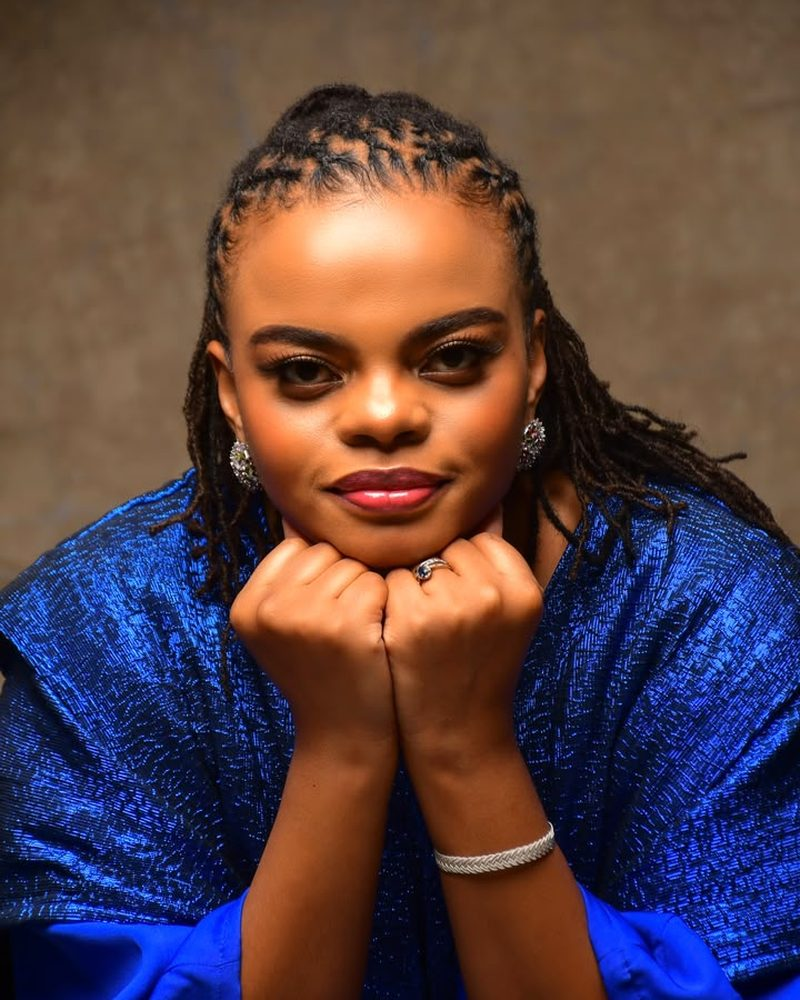
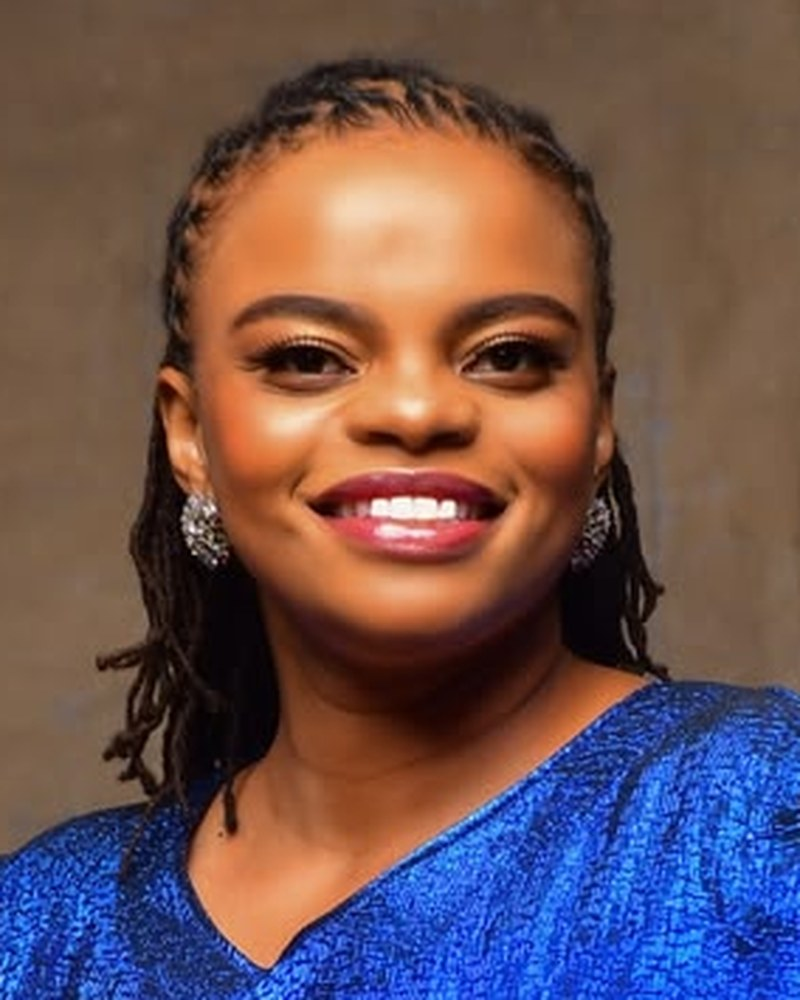
vitrine : une autre pose pour la premiere cliente, et le doublon s'en va
Deux mouvements demandes par Yeman.

La premiere photo du rang « Nos clientes » est remplacee par une AUTRE PHOTO
de la meme cliente, debout, qu'il juge meilleure de pose. Recadree a la meme
echelle de visage que ses voisines, tete a 0,55 de la hauteur et regard a
0,37. L'echelle a ete reglee sur le RANG ASSEMBLE et non sur la photo seule :
un premier essai calait sur la photo qu'il remplacait, qui etait justement la
plus petite du rang, et le nouveau visage sortait plus petit que les autres.
C'est cote a cote qu'une echelle se voit.

La quatrieme photo du rang etait la MEME FEMME que la troisieme, en veste
peche au lieu de rouge. La regle « une seule par personne dans la rangee »
etait ecrite dans le contenu depuis le 24 septembre et n'etait gardee par
rien. Elle quitte le rang, qui passe a quatre, et va illustrer « Quelle
methode choisir pour creer ses premieres locks ? ».

Une photo verticale ne rentre pas de face dans une carte 16/10 : la plus
grande fenetre possible coupait le menton. Le fond a donc ete PROLONGE a
droite, chaque rangee continuee par la moyenne de ses vingt dernieres
colonnes, la ou il est uniforme a un niveau de gris pres (ecart-type 1,
mesure). Rien n'y est invente qui ne s'y trouve deja, personne n'est
retouche, aucune signature n'est touchee : seul le vide s'allonge.

La vignette qu'elle remplace n'illustrait que cet article. Une photo de
cliente publiee qui ne sert plus n'a pas a rester dans les fichiers servis,
[…]

diff --git a/src/apps/revelateur/contenu.ts b/src/apps/revelateur/contenu.ts
@@ -238,7 +238,18 @@ export const ACCUEIL: Accueil = {
        visage y revient et la rangée se défait. `cliente-9` est recadrée à la
        même échelle de visage que les autres, regard à 35 % de la hauteur, la
        signature de la photographe sortie du cadre (jamais effacée). */
-    images: ['cliente-3.jpg', 'cliente-6.jpg', 'cliente-7.jpg', 'cliente-8.jpg', 'cliente-9.jpg'],
+    /* QUATRE DEPUIS LE 26 SEPTEMBRE 2026. `cliente-8` est partie : c'est la
+       MEME FEMME que `cliente-7`, en veste pêche au lieu de rouge, et deux
+       photos d'une seule personne dans une rangée de clientes défont
+       précisément ce que la rangée dit. La règle était déjà écrite au-dessus,
+       « une seule par personne » ; elle n'était gardée par rien. `cliente-8`
+       continue de servir au bandeau « À la Maison », et sert désormais la
+       vignette de « Quelle méthode choisir pour créer ses premières locks ? ».
+       `cliente-3` est une autre photo de la même cliente, debout, remise par
+       Yéman le 26 septembre : même échelle de visage que ses voisines, 0,55 de
+       la hauteur, regard à 0,37, mesurée sur le rang assemblé et non sur la
+       photo seule. */
+    images: ['cliente-3.jpg', 'cliente-6.jpg', 'cliente-7.jpg', 'cliente-9.jpg'],
   },
   portes: {
     sur: 'Cinq parcours, une seule méthode',

diff --git a/scripts/verifie-la-vitrine.harnais.ts b/scripts/verifie-la-vitrine.harnais.ts
@@ -140,7 +140,14 @@ const VIGNETTES_DE_CLIENTES = ['journal-4.jpg', 'journal-5.jpg', 'journal-6.jpg'
   /* 24 septembre 2026 : trois de plus, dont un ENFANT (journal-7). La règle
      compte double pour lui. journal-9 est `cliente-2.jpg`, descendue de
      l'accueil au Journal. */
-  'journal-7.jpg', 'journal-8.jpg', 'journal-9.jpg'];
+  'journal-7.jpg', 'journal-9.jpg',
+  /* 26 septembre 2026 : `journal-10` est `cliente-8.jpg`, descendue du rang de
+     l'accueil où elle doublait `cliente-7` — c'est la même femme. `journal-8`
+     a quitté le site le même jour : sa place était la seule qu'elle occupait,
+     et le contrôle d'en bas veut qu'une photo de cliente publiée serve quelque
+     part. Elle n'est pas détruite, son original reste chez Yéman ; elle n'est
+     simplement plus servie. */
+  'journal-10.jpg'];
 /* Les mots par lesquels un article nomme un défaut. La liste s'allonge avec
    le Journal : un article qui parlera de chute, d'odeur ou de moisissure
    s'ajoute ici le jour où il est écrit. */

diff --git a/docs/site-revelateur/photos.md b/docs/site-revelateur/photos.md
@@ -27,11 +27,12 @@ lieu de la tirer au sort sur son rang dans le dossier.
 | `portrait-accueil.jpg` | porte « Je veux créer ma couronne » | un portrait souriant, cadré 4/5 sur le visage | remise par Yéman le 22 septembre 2026 ; signature de la photographe hors cadre, sans crédit, sur sa décision |
 | `trois-couronnes.jpg` | porte Entretien | trois femmes, trois couronnes | remise par Yéman le 22 septembre 2026 |
 | `mnd-kids.jpg` | porte MND Kids, page MND Kids | une mère et son enfant, cadrés 4/5 | remise par Yéman le 23 septembre 2026 ; **accord de la mère confirmé par Yéman le 23 septembre 2026** ; signature de la photographe hors cadre ; aucun prénom nulle part |
-| `cliente-3.jpg` | accueil, « Nos clientes », au-dessus des avis Google | une cliente de la Maison, portrait 4/5 ancré en haut. Le 24 septembre 2026, `cliente-2.jpg` a quitté cette rangée : son visage y était deux fois plus petit que celui de sa voisine, et deux échelles côte à côte se lisent comme un défaut. Elle vit désormais au Journal sous `journal-9.jpg`, recadrée depuis son original | remises par Yéman le 23 septembre 2026 (Downloads/portraits-clientes-2026-09) ; **ce que nous savons, c'est la réponse de Yéman au sélecteur, le 23 septembre 2026 : « Des clientes, avec accord » (« elles ont dit oui pour paraître sur le site public »), alors que la voie « Des clientes, sans accord encore » lui était offerte et décrite** ; aucun prénom nulle part ; bandeau du studio photo (cliente-2) hors cadre par le recadrage, jamais gommé |
+| `cliente-3.jpg` | accueil, « Nos clientes », au-dessus des avis Google | **Depuis le 26 septembre 2026, une AUTRE PHOTO de la même cliente**, debout, souriante, en boubou bleu : Yéman l'a jugée meilleure de pose. Recadrée en 4/5 à la même échelle de visage que ses voisines, la tête occupant 0,55 de la hauteur et le regard posé à 0,37 ; l'échelle a été réglée sur le RANG ASSEMBLÉ et non sur la photo seule, parce que c'est côte à côte qu'un visage plus petit se voit. Vient d'un fichier de 776 x 1080, fenêtre 284 x 355 en (213, 107), donc agrandie 2,82 fois : elle est réservée aux emplacements où l'image s'affiche petite, comme `cliente-7` et `cliente-8`. La photo précédente (mains sous le menton, même boubou) n'est plus servie ; son original reste chez Yéman. L'historique de cette case : le 24 septembre 2026, `cliente-2.jpg` avait quitté cette rangée, son visage y étant deux fois plus petit que celui de sa voisine, et elle vit depuis au Journal sous `journal-9.jpg` | remise par Yéman le 26 septembre 2026, par la conversation, et rangée avec les autres sous `Downloads/portraits-clientes-2026-09/cliente-3-nouvelle-pose-2026-09-26.jpg` ; **ce que nous savons, c'est la réponse de Yéman au sélecteur, le 26 septembre 2026 : « Elle a dit oui, cette photo comprise » (son accord pour paraître sur le site public couvre cette photo-là), alors que les voies « je lui redemande, ne publie pas encore » et « je ne sais pas » lui étaient offertes et décrites** ; aucun prénom nulle part |
 | `cliente-1.jpg`, `cliente-4.jpg`, `cliente-5.jpg` | plus servies depuis le 23 septembre 2026 au soir ; restent dans le dossier, et vivent au Journal sous `journal-4/5/6.jpg` | les trois autres portraits de la même remise | remises par Yéman le 23 septembre 2026 (Downloads/portraits-clientes-2026-09) ; **ce que nous savons, c'est la réponse de Yéman au sélecteur, le 23 septembre 2026 : « Des clientes, avec accord » (« elles ont dit oui pour paraître sur le site public »), alors que la voie « Des clientes, sans accord encore » lui était offerte et décrite** ; aucun prénom nulle part ; bandeau du studio photo (cliente-1) hors cadre par le recadrage, jamais gommé |
 | `journal-4.jpg`, `journal-5.jpg`, `journal-6.jpg` | vignettes du Journal : `laver-ses-dreadlocks`, `commencer-ses-dreadlocks`, `entretenir-ses-racines` | les mêmes trois clientes, retaillées en 16/10 pour le cadre des cartes. Recadrées depuis les ORIGINAUX (Downloads/portraits-clientes-2026-09) et non depuis les 800x1000, pour ne pas recadrer un recadrage. Fenêtres, en pixels de l'original : cliente-1 (220, 100, 440x275) → journal-4 ; cliente-4 (152, 60, 896x560) → journal-5 ; cliente-5 (25, 10, 640x400) → journal-6 ; puis LANCZOS vers 960x600, JPEG 82 progressif | remises par Yéman le 23 septembre 2026 (Downloads/portraits-clientes-2026-09) ; **ce que nous savons, c'est la réponse de Yéman au sélecteur, le 23 septembre 2026 : « Des clientes, avec accord » (« elles ont dit oui pour paraître sur le site public »), alors que la voie « Des clientes, sans accord encore » lui était offerte et décrite** ; aucun prénom nulle part ; **aucune ne peut aller sur un article qui nomme un défaut, voir la règle en haut de ce registre** |
-| `cliente-6.jpg`, `cliente-7.jpg`, `cliente-8.jpg` | accueil, « Nos clientes », avec `cliente-3.jpg` ; et le bandeau « À la Maison » qui tourne d'une page à l'autre | trois clientes de la Maison, portraits 4/5, regard posé à 35 % de la hauteur comme toute la rangée. `cliente-6` vient d'un fichier propre de 1948 x 2265, donc réduite sans perte ; `cliente-7` et `cliente-8` viennent de fichiers de 426 x 640 seulement, donc agrandies 2,1 fois, ce qui les réserve aux emplacements où l'image s'affiche petite | remises par Yéman le 24 septembre 2026 ; **ce que nous savons, c'est sa réponse au sélecteur ce jour-là : « Oui, toutes, et la mère pour l'enfant » (elles ont dit oui pour paraître sur le site public), alors que les voies « pas encore pour l'enfant » et « pas encore, rien ne part » lui étaient offertes et décrites** ; aucun prénom nulle part ; **l'ancien logo « M Natural · Ateliers des dreadlocks », incrusté en haut à gauche de `cliente-7` et `cliente-8`, est HORS CADRE par le recadrage, jamais gommé** (choix de Yéman au sélecteur le 24 septembre 2026 : « recadrer pour sortir le logo ») ; le crédit « Black Winner Photography » sort du cadre par le même mouvement |
-| `journal-7.jpg`, `journal-8.jpg` | vignettes du Journal : `dreadlocks-enfants`, `quelle-methode-premieres-locks` | un enfant à lunettes, et une cliente aux locks courtes, en 16/10 pour le cadre des cartes ; venues de fichiers de 640 x 426, agrandies 1,9 fois | remises par Yéman le 24 septembre 2026 ; **ce que nous savons, c'est sa réponse au sélecteur ce jour-là : « Oui, toutes, et la mère pour l'enfant » (elles ont dit oui pour paraître sur le site public), alors que les voies « pas encore pour l'enfant » et « pas encore, rien ne part » lui étaient offertes et décrites** ; aucun prénom nulle part ; **l'accord de la mère pour l'enfant est compris dans cette réponse** ; l'ancien logo est hors cadre par le recadrage, jamais gommé ; **aucune ne peut aller sur un article qui nomme un défaut, voir la règle en haut de ce registre** |
+| `cliente-6.jpg`, `cliente-7.jpg` (accueil) et `cliente-8.jpg` (hors accueil) | `cliente-6` et `cliente-7` : accueil, « Nos clientes », avec `cliente-3.jpg` ; les trois : le bandeau « À la Maison » qui tourne d'une page à l'autre. **`cliente-8` a quitté la rangée de l'accueil le 26 septembre 2026 : c'est la MÊME FEMME que `cliente-7`, en veste pêche au lieu de rouge** (Yéman : « picture 4 est un doublon de picture 3 »). Deux photos d'une seule personne dans une rangée de clientes défont ce que la rangée dit ; la règle « une seule par personne » était écrite dans le contenu depuis le 24 septembre, et n'était gardée par rien. `cliente-8` sert désormais aussi la vignette `journal-10.jpg` | trois clientes de la Maison, portraits 4/5, regard posé à 35 % de la hauteur comme toute la rangée. `cliente-6` vient d'un fichier propre de 1948 x 2265, donc réduite sans perte ; `cliente-7` et `cliente-8` viennent de fichiers de 426 x 640 seulement, donc agrandies 2,1 fois, ce qui les réserve aux emplacements où l'image s'affiche petite | remises par Yéman le 24 septembre 2026 ; **ce que nous savons, c'est sa réponse au sélecteur ce jour-là : « Oui, toutes, et la mère pour l'enfant » (elles ont dit oui pour paraître sur le site public), alors que les voies « pas encore pour l'enfant » et « pas encore, rien ne part » lui étaient offertes et décrites** ; aucun prénom nulle part ; **l'ancien logo « M Natural · Ateliers des dreadlocks », incrusté en haut à gauche de `cliente-7` et `cliente-8`, est HORS CADRE par le recadrage, jamais gommé** (choix de Yéman au sélecteur le 24 septembre 2026 : « recadrer pour sortir le logo ») ; le crédit « Black Winner Photography » sort du cadre par le même mouvement |
+| `journal-7.jpg` | vignette du Journal : `dreadlocks-enfants` | un enfant à lunettes, en 16/10 pour le cadre des cartes ; venu d'un fichier de 640 x 426, agrandi 1,9 fois. **`journal-8.jpg` (une cliente aux locks courtes) a quitté les photos publiées le 26 septembre 2026** : elle n'illustrait que `quelle-methode-premieres-locks`, dont la vignette est passée à `journal-10.jpg` à la demande de Yéman, et une photo de cliente qui ne sert plus n'a pas à rester dans les fichiers servis (c'est ce que garde `verifie-la-vitrine`). Elle n'est pas détruite : son original reste chez Yéman, et le dépôt en garde l'histoire | remises par Yéman le 24 septembre 2026 ; **ce que nous savons, c'est sa réponse au sélecteur ce jour-là : « Oui, toutes, et la mère pour l'enfant » (elles ont dit oui pour paraître sur le site public), alors que les voies « pas encore pour l'enfant » et « pas encore, rien ne part » lui étaient offertes et décrites** ; aucun prénom nulle part ; **l'accord de la mère pour l'enfant est compris dans cette réponse** ; l'ancien logo est hors cadre par le recadrage, jamais gommé ; **aucune ne peut aller sur un article qui nomme un défaut, voir la règle en haut de ce registre** |
+| `journal-10.jpg` | vignette du Journal : `quelle-methode-premieres-locks` | `cliente-8.jpg` passée en 16/10. **Une photo verticale ne rentre pas de face dans une carte 16/10** : la plus grande fenêtre possible, 800 x 500, coupait le menton. Le fond a donc été PROLONGÉ à droite, de 800 à 1120 pixels, chaque rangée étant continuée par la moyenne de ses vingt dernières colonnes. Ce fond est uniforme à un niveau de gris près (écart-type 1 sur les trente dernières colonnes, de y = 0 à y = 700, mesuré) : **rien n'y est inventé qui ne s'y trouve déjà, personne n'est retouché, aucune signature n'est touchée, seul le vide s'allonge.** Fenêtre 800 x 700 prise en haut, rendue en 960 x 600, soit 1,20 fois | l'accord est celui de `cliente-8.jpg`, ci-dessus ; **cet article ne nomme aucun défaut**, la règle du haut de ce registre est donc respectée |
 | `journal-9.jpg` | vignette du Journal : `hydrater-ses-locks` | `cliente-2.jpg`, en 16/10, recadrée depuis l'ORIGINAL (Downloads/portraits-clientes-2026-09, 816 x 1232, fenêtre 816 x 510 à y = 132) et non depuis le 800 x 1000, pour ne pas recadrer un recadrage | remise par Yéman le 23 septembre 2026 ; **accord : sa réponse au sélecteur du 23 septembre 2026, « Des clientes, avec accord »** ; bandeau du studio photo hors cadre par le recadrage, jamais gommé ; **ne peut pas aller sur un article qui nomme un défaut** |
 | `cliente-9.jpg` | accueil, rangée « Nos clientes », cinquième visage | une cliente de la Maison, fond vert, locks naissantes | confiée par Yéman le 24 septembre 2026 au soir ; **accord donné**, question posée et répondue au sélecteur. Photographie de Gaëlle Gbaguidi Photography : sa signature est SORTIE DU CADRE par le recadrage (zone arrêtée à 86 % de la hauteur), jamais effacée, décision de Yéman le même soir. Source 753 x 1080, coupe 743 x 929, regard à 35 % |
 | `enfant-jardin.jpg` | page MND Kids | un enfant aux locks, au jardin, adossé à un arbre | confiée par Yéman le 24 septembre 2026 au soir ; **accord de sa mère**, question posée et répondue au sélecteur. Aucun prénom nulle part. Aucune signature sur l'image. Source 640 x 960, coupe 640 x 800 agrandie 1,25 fois, regard à 31 % : c'est une scène de jardin et non un portrait serré, elle tient seule sur sa page et n'entre dans aucune rangée |

diff --git a/docs/site-revelateur/journal/quelle-methode-premieres-locks.md b/docs/site-revelateur/journal/quelle-methode-premieres-locks.md
@@ -3,7 +3,7 @@ titre: "Quelle méthode choisir pour créer ses premières locks ?"
 slug: quelle-methode-premieres-locks
 description: "Torsades, crochet, interlocking, freeform, microlocks : comment choisir la méthode de création de vos premières locks selon votre texture et votre vie."
 parcours: premiere-couronne
-image: journal-8.jpg
+image: journal-10.jpg
 motsCles:
   - méthode création dreadlocks
   - locks au crochet
